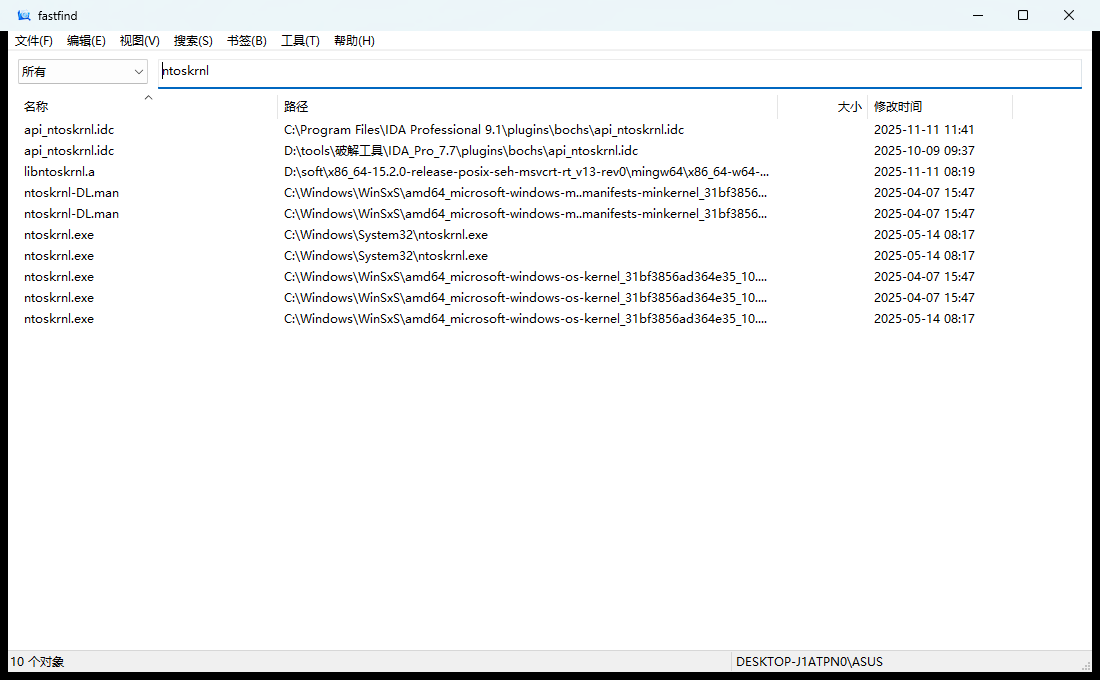
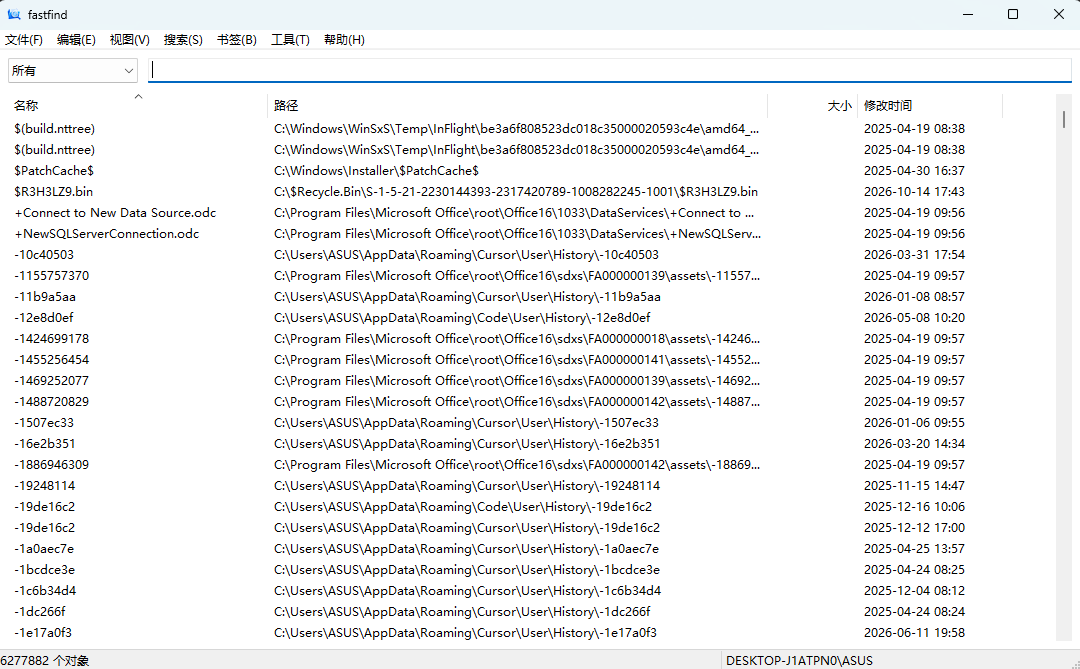
Fix the issue where the program reports that it is still running when starting up.

Changed region(s): [[0.0, 0.0, 1.0, 1.0], [0.9167, 0.0, 0.9778, 0.0299]]

diff --git a/fastfindui.cpp b/fastfindui.cpp
@@ -31,6 +31,7 @@
 #define _UNICODE
 #endif
 #include <windows.h>
+#include <tlhelp32.h>
 #include <commctrl.h>
 #include <shellapi.h>
 #include <winioctl.h>
@@ -984,6 +985,7 @@ enum { IDT_DRAIN = 1, IDT_IDLE = 2, IDT_SEARCH = 3, IDT_SELSTAT = 4,
        IDM_HELP_HELP = 21090, IDM_HELP_SYNTAX = 21091, IDM_HELP_CMDLINE = 21092,
        IDM_HELP_ABOUT = 21093 };
 #define WM_TRAYICON (WM_APP + 4)
+#define WM_SHOWEXISTING (WM_APP + 5)   /* second launch: show the running window */
 
 /* ---- Everything-style UI state ------------------------------------------- */
 enum SortField { SORT_NAME = 0, SORT_PATH, SORT_SIZE, SORT_EXT, SORT_DATE };
@@ -2152,6 +2154,9 @@ static LRESULT CALLBACK WndProc(HWND hwnd, UINT msg, WPARAM wp, LPARAM lp) {
             trayMenu();
         }
         return 0;
+    case WM_SHOWEXISTING:
+        showMainWindow();
+        return 0;
     case WM_CONTEXTMENU:
         /* right-click on a search result: Everything-style menu with
            open / open-path (jump to folder) / copy path / properties */
@@ -2296,6 +2301,153 @@ static LRESULT CALLBACK WndProc(HWND hwnd, UINT msg, WPARAM wp, LPARAM lp) {
     return DefWindowProcW(hwnd, msg, wp, lp);
 }
 
+/* Ask a live instance to show itself. Returns false when the window is gone
+   or its UI thread is blocked (exit saves the index inside WM_DESTROY, so the
+   HWND can still exist while nothing is on screen). A false result must not
+   be silent — the caller shows a window explaining the lock. */
+static bool revealExisting(HWND h) {
+    if (!h || !IsWindow(h)) return false;
+    if (!IsWindowVisible(h) || IsIconic(h)) {
+        DWORD_PTR result = 0;
+        if (!SendMessageTimeoutW(h, WM_SHOWEXISTING, 0, 0,
+                SMTO_ABORTIFHUNG | SMTO_BLOCK, 1000, &result))
+            return false;
+    }
+    DWORD fg = GetWindowThreadProcessId(GetForegroundWindow(), nullptr);
+    DWORD tg = GetWindowThreadProcessId(h, nullptr);
+    if (fg && fg != tg) AttachThreadInput(fg, tg, TRUE);
+    if (IsIconic(h)) ShowWindow(h, SW_RESTORE);
+    ShowWindow(h, SW_SHOW);
+    if (!SetForegroundWindow(h)) FlashWindow(h, TRUE);
+    BringWindowToTop(h);
+    if (fg && fg != tg) AttachThreadInput(fg, tg, FALSE);
+    return IsWindowVisible(h) != FALSE;
+}
+
+static HANDLE g_busyMutex = nullptr;
+static bool g_busyGot = false;
+
+static wstring otherFastfindPids() {
+    wstring s;
+    HANDLE snap = CreateToolhelp32Snapshot(TH32CS_SNAPPROCESS, 0);
+    if (snap == INVALID_HANDLE_VALUE) return s;
+    PROCESSENTRY32W pe{}; pe.dwSize = sizeof pe;
+    DWORD self = GetCurrentProcessId();
+    int n = 0;
+    if (Process32FirstW(snap, &pe)) {
+        do {
+            if (pe.th32ProcessID == self) continue;
+            if (_wcsicmp(pe.szExeFile, L"fastfindui.exe")) continue;
+            wchar_t line[80];
+            _snwprintf(line, 80, L"fastfindui.exe（PID %lu）\n", pe.th32ProcessID);
+            s += line;
+            if (++n >= 8) break;
+        } while (Process32NextW(snap, &pe));
+    }
+    CloseHandle(snap);
+    return s;
+}
+
+static LRESULT CALLBACK BusyProc(HWND hwnd, UINT msg, WPARAM wp, LPARAM lp) {
+    switch (msg) {
+    case WM_CREATE: {
+        NONCLIENTMETRICSW ncm{ sizeof ncm };
+        SystemParametersInfoW(SPI_GETNONCLIENTMETRICS, sizeof ncm, &ncm, 0);
+        HFONT font = CreateFontIndirectW(&ncm.lfMessageFont);
+        SetWindowLongPtrW(hwnd, GWLP_USERDATA, (LONG_PTR)font);
+        const wchar_t* text = (const wchar_t*)((CREATESTRUCTW*)lp)->lpCreateParams;
+        HWND st = CreateWindowExW(0, L"STATIC", text, WS_CHILD | WS_VISIBLE | SS_LEFT,
+                                  18, 16, 484, 168, hwnd, nullptr, nullptr, nullptr);
+        HWND btn = CreateWindowExW(0, L"BUTTON", L"取消",
+                                   WS_CHILD | WS_VISIBLE | BS_PUSHBUTTON | WS_TABSTOP,
+                                   210, 192, 100, 30, hwnd, (HMENU)IDCANCEL, nullptr, nullptr);
+        SendMessageW(st, WM_SETFONT, (WPARAM)font, TRUE);
+        SendMessageW(btn, WM_SETFONT, (WPARAM)font, TRUE);
+        SetTimer(hwnd, 1, 200, nullptr);
+        return 0;
+    }
+    case WM_TIMER: {
+        DWORD wr = WaitForSingleObject(g_busyMutex, 0);
+        if (wr == WAIT_OBJECT_0 || wr == WAIT_ABANDONED) {
+            g_busyGot = true;
+            KillTimer(hwnd, 1);
+            DestroyWindow(hwnd);
+        }
+        return 0;
+    }
+    case WM_COMMAND:
+        if (LOWORD(wp) == IDCANCEL) { DestroyWindow(hwnd); return 0; }
+        break;
+    case WM_KEYDOWN:
+        if (wp == VK_ESCAPE) { DestroyWindow(hwnd); return 0; }
+        break;
+    case WM_CLOSE:
+        DestroyWindow(hwnd);
+        return 0;
+    case WM_DESTROY: {
+        HFONT font = (HFONT)GetWindowLongPtrW(hwnd, GWLP_USERDATA);
+        if (font) DeleteObject(font);
+        return 0;
+    }
+    }
+    return DefWindowProcW(hwnd, msg, wp, lp);
+}
+
+/* Lock is held and no usable window is on screen. Show that immediately —
+   a silent wait looks like the double-click did nothing. When the owner
+   releases the mutex (index save finished, or the process exited), close
+   this notice and let startup continue. */
+static bool waitWhileBusy(HINSTANCE hInst, HANDLE single) {
+    g_busyMutex = single;
+    g_busyGot = false;
+    wstring pids = otherFastfindPids();
+    wstring text =
+        L"fastfind 的启动锁仍被占用，所以这次没有直接打开新窗口。\n\n"
+        L"窗口和托盘这时可能已经关闭，进程还在把索引写回磁盘。"
+        L"写完后这个提示会关掉，并自动打开 fastfind。\n\n";
+    if (!pids.empty()) {
+        text += L"仍在运行：\n";
+        text += pids;
+        text += L"\n如果一直停在这里，请到任务管理器结束上面的进程，或点“取消”。";
+    } else {
+        text += L"没有找到 fastfindui.exe。锁可能马上会释放；"
+                L"若不想等，点“取消”后再试。";
+    }
+
+    WNDCLASSW wc{};
+    wc.lpfnWndProc = BusyProc;
+    wc.hInstance = hInst;
+    wc.hCursor = LoadCursor(nullptr, IDC_ARROW);
+    wc.hbrBackground = (HBRUSH)(COLOR_WINDOW + 1);
+    wc.lpszClassName = L"fastfindui-busy";
+    wc.hIcon = LoadIcon(nullptr, IDI_INFORMATION);
+    RegisterClassW(&wc);
+
+    DWORD style = WS_OVERLAPPED | WS_CAPTION | WS_SYSMENU;
+    DWORD ex = WS_EX_TOPMOST | WS_EX_DLGMODALFRAME;
+    RECT rc{ 0, 0, 520, 240 };
+    AdjustWindowRectEx(&rc, style, FALSE, ex);
+    int w = rc.right - rc.left, h = rc.bottom - rc.top;
+    int x = (GetSystemMetrics(SM_CXSCREEN) - w) / 2;
+    int y = (GetSystemMetrics(SM_CYSCREEN) - h) / 2;
+    HWND hwnd = CreateWindowExW(ex, wc.lpszClassName, L"fastfind", style,
+                                x, y, w, h, nullptr, nullptr, hInst,
+                                (LPVOID)text.c_str());
+    if (!hwnd) {
+        MessageBoxW(nullptr, text.c_str(), L"fastfind", MB_OK | MB_ICONINFORMATION);
+        return false;
+    }
+    ShowWindow(hwnd, SW_SHOW);
+    UpdateWindow(hwnd);
+    SetForegroundWindow(hwnd);
+    MSG msg;
+    while (IsWindow(hwnd) && GetMessageW(&msg, nullptr, 0, 0) > 0) {
+        TranslateMessage(&msg);
+        DispatchMessageW(&msg);
+    }
+    return g_busyGot;
+}
+
 int APIENTRY wWinMain(HINSTANCE hInst, HINSTANCE, LPWSTR, int nShow) {
     /* command line:
        -install-menu / -uninstall-menu   register/remove the Explorer context
@@ -2321,12 +2473,29 @@ int APIENTRY wWinMain(HINSTANCE hInst, HINSTANCE, LPWSTR, int nShow) {
         }
         if (argvW) LocalFree(argvW);
     }
-    // single instance: a tray-resident copy would otherwise double the memory
-    HANDLE single = CreateMutexW(nullptr, TRUE, L"Local\\fastfindui-single-instance");
-    if (!single || GetLastError() == ERROR_ALREADY_EXISTS) {
-        MessageBoxW(nullptr, L"fastfind 已经在运行（可能已最小化到系统托盘）。",
-                    L"fastfind", MB_OK | MB_ICONINFORMATION);
+    /* single instance. Ownership, not the name, means "running": exit drops
+       the window and tray first, then keeps the mutex while it writes the
+       index. If that owner still has a window that can be shown, show it.
+       Otherwise put a notice on screen immediately — waiting in silence looks
+       like the double-click was ignored. The notice closes itself and startup
+       continues once the owner releases the mutex. */
+    HANDLE single = CreateMutexW(nullptr, FALSE, L"Local\\fastfindui-single-instance");
+    if (!single) {
+        MessageBoxW(nullptr, L"无法启动 fastfind（创建实例锁失败）。",
+                    L"fastfind", MB_OK | MB_ICONERROR);
         return 0;
+    }
+    DWORD wr = WaitForSingleObject(single, 0);
+    if (wr != WAIT_OBJECT_0 && wr != WAIT_ABANDONED) {
+        HWND other = FindWindowW(L"fastfindui", nullptr);
+        if (other && revealExisting(other)) {
+            CloseHandle(single);
+            return 0;
+        }
+        if (!waitWhileBusy(hInst, single)) {
+            CloseHandle(single);
+            return 0;
+        }
     }
     if (const char* lg = getenv("FASTFINDUI_LOG")) {
         wchar_t w[MAX_PATH]; MultiByteToWideChar(CP_UTF8, 0, lg, -1, w, MAX_PATH);
@@ -2375,6 +2544,7 @@ int APIENTRY wWinMain(HINSTANCE hInst, HINSTANCE, LPWSTR, int nShow) {
         DispatchMessageW(&msg);
     }
     if (g_log) fclose(g_log);
-    if (single) ReleaseMutex(single);
+    ReleaseMutex(single);
+    CloseHandle(single);
     return (int)msg.wParam;
 }
